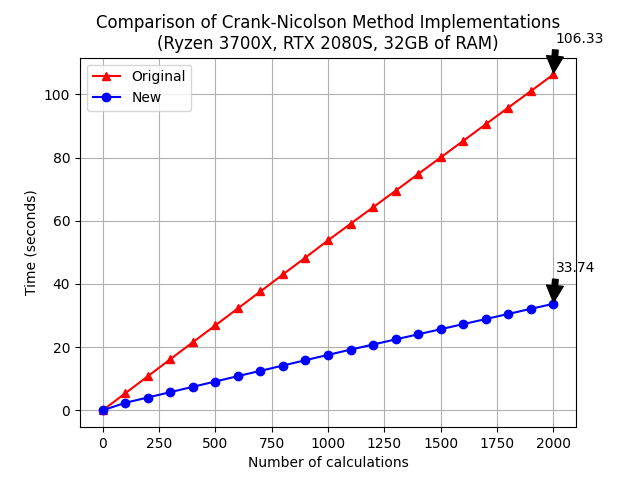
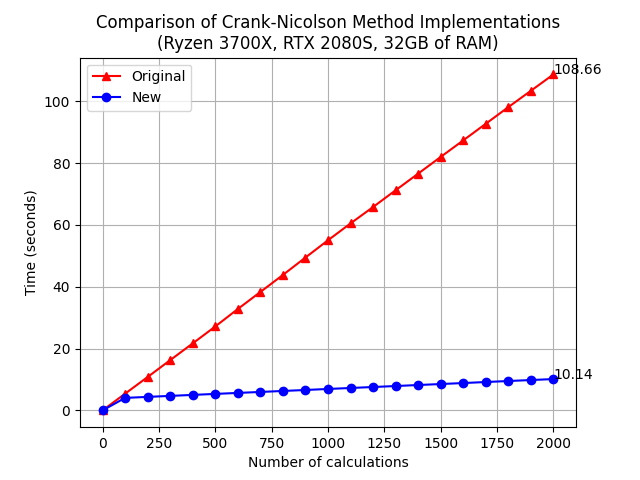
final FINAL commit for real

diff --git a/new_crank.py b/new_crank.py
@@ -2,19 +2,22 @@ from numpy import *
 from math import *
 import matplotlib.pyplot as plt
 import time
-from numba import jit
+
+from numpy.linalg import solve
+from numba import jit, cuda, f8, njit
 import warnings
 warnings.filterwarnings("ignore")
 
 #JAY -- using Numba, the JIT compiler stores the function in a compiled binary that dramatically speeds up runtime
-@jit
-def solve_tridiagonal(a, b, c, solve_for):
+@jit(f8[:] (f8[:],f8[:],f8[:],f8[:] ), cache=True)
+def solve_tridiagonal(top, mid, bottom, b):
     '''
     JAY -- a fast function for solving tridiagonal matrices, based on Thomas' Algorithm. 
     '''
     height = len(b)
   
-    top, mid, bottom, b = map(array, (a, b, c, solve_for))
+    #top, mid, bottom, b = map(array, (a, b, c, solve_for))
+    #top, mid, bottom, b = [array(i) for i in [a, b, c, solve_for]]
 
     for i in range(1, height):
         m = top[i-1]/mid[i-1]
@@ -29,6 +32,7 @@ def solve_tridiagonal(a, b, c, solve_for):
 
     return x
 
+@jit()
 def price_american_option_with_divs():
 
     #JAY -- Initialize variables -- can tweak these to compare against known pricings
@@ -99,7 +103,7 @@ def price_american_option_with_divs():
         b = RHS
 
         #JAY -- <-MAIN OPTIMISATION-> The original paper used an iterative SOR algorithm which was inefficient, numpy's matrix solver for square matrices allows for parallel processing and is therefore much faster, and also does not require multiple iterations. This can be further optimised with a tridiagonal solver, which can solve the system of equations in linear time
-        x = solve_tridiagonal(top_and_bottom, mid, top_and_bottom, b)
+        x = solve_tridiagonal(array(top_and_bottom), array(mid), array(top_and_bottom), array(b))
         u[1:N, p+1] = x
 
     #JAY -- This is the final value of the option, which is the interpolated value of the last time step

diff --git a/tester.py b/tester.py
@@ -52,11 +52,12 @@ def test_crank_plot():
     plt.title("Comparison of Crank-Nicolson Method Implementations\n(Ryzen 3700X, RTX 2080S, 32GB of RAM)")
     plt.xlabel("Number of calculations")
     plt.ylabel("Time (seconds)")
-    plt.annotate("%.2f" % (original_times[-1]), xy=(x[-1], original_times[-1]), xytext=(x[-1]+10, original_times[-1]+10))
-    plt.annotate("%.2f" % (new_times[-1]), xy=(x[-1], new_times[-1]), xytext=(x[-1]+10, new_times[-1]+10))
+    plt.annotate("%.2f" % (original_times[-1]), xy=(x[-1], original_times[-1]), xytext=(x[-1], original_times[-1]))
+    plt.annotate("%.2f" % (new_times[-1]), xy=(x[-1], new_times[-1]), xytext=(x[-1], new_times[-1]))
     plt.show() 
     plt.grid()
     plt.savefig("crank_plot.png")
 
 if __name__ == "__main__":
     test_crank_plot()
+    #test_new_tridiag()

diff --git a/original_crank.py b/original_crank.py
@@ -97,7 +97,7 @@ def price_american_option_with_divs():
                     z = (b[i]+0.5*alpha*(x[i-1]+x[i+1]))/(1+alpha)
                     x[i] = max(omega*z + (1-omega)*xold[i], g[i][p])
 
-        x = linalg.solve(cmatrix, b)
+        #x = linalg.solve(cmatrix, b)
         u[1:N, p+1] = x
         # if p % plot_step == 0:
         # ax.plot(X_plot_mesh, u[:, M], label="t = %.2f" % (p*dt))
